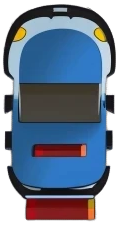
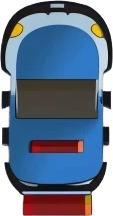
oukej

diff --git a/docs/style.css b/docs/style.css
@@ -49,9 +49,9 @@ nav ul li a {
 
 #road {
     position: relative;
-    width: 500px; /* Širšia cesta */
-    height: 900px; /* Viac priestoru pre herné pole */
-    background: linear-gradient(#fe5f5f, #444);
+    width: 45%; /* Širšia cesta */
+    height: 150%; /* Viac priestoru pre herné pole */
+    background-image: url("background.png");
     overflow: hidden;
     border: 5px solid #222;
     border-radius: 10px;
@@ -70,9 +70,9 @@ nav ul li a {
 .obstacle {
     background-color: blue;
     position: absolute;
-    width: 50px;
-    height: 50px;
-    background: url('bariera.png') no-repeat center / contain;
+    width: 40px;
+    height: 60px;
+    background: url('modern_caaaaaaaaaaaaar.png') no-repeat center / contain;
 }
 
 .coin {
